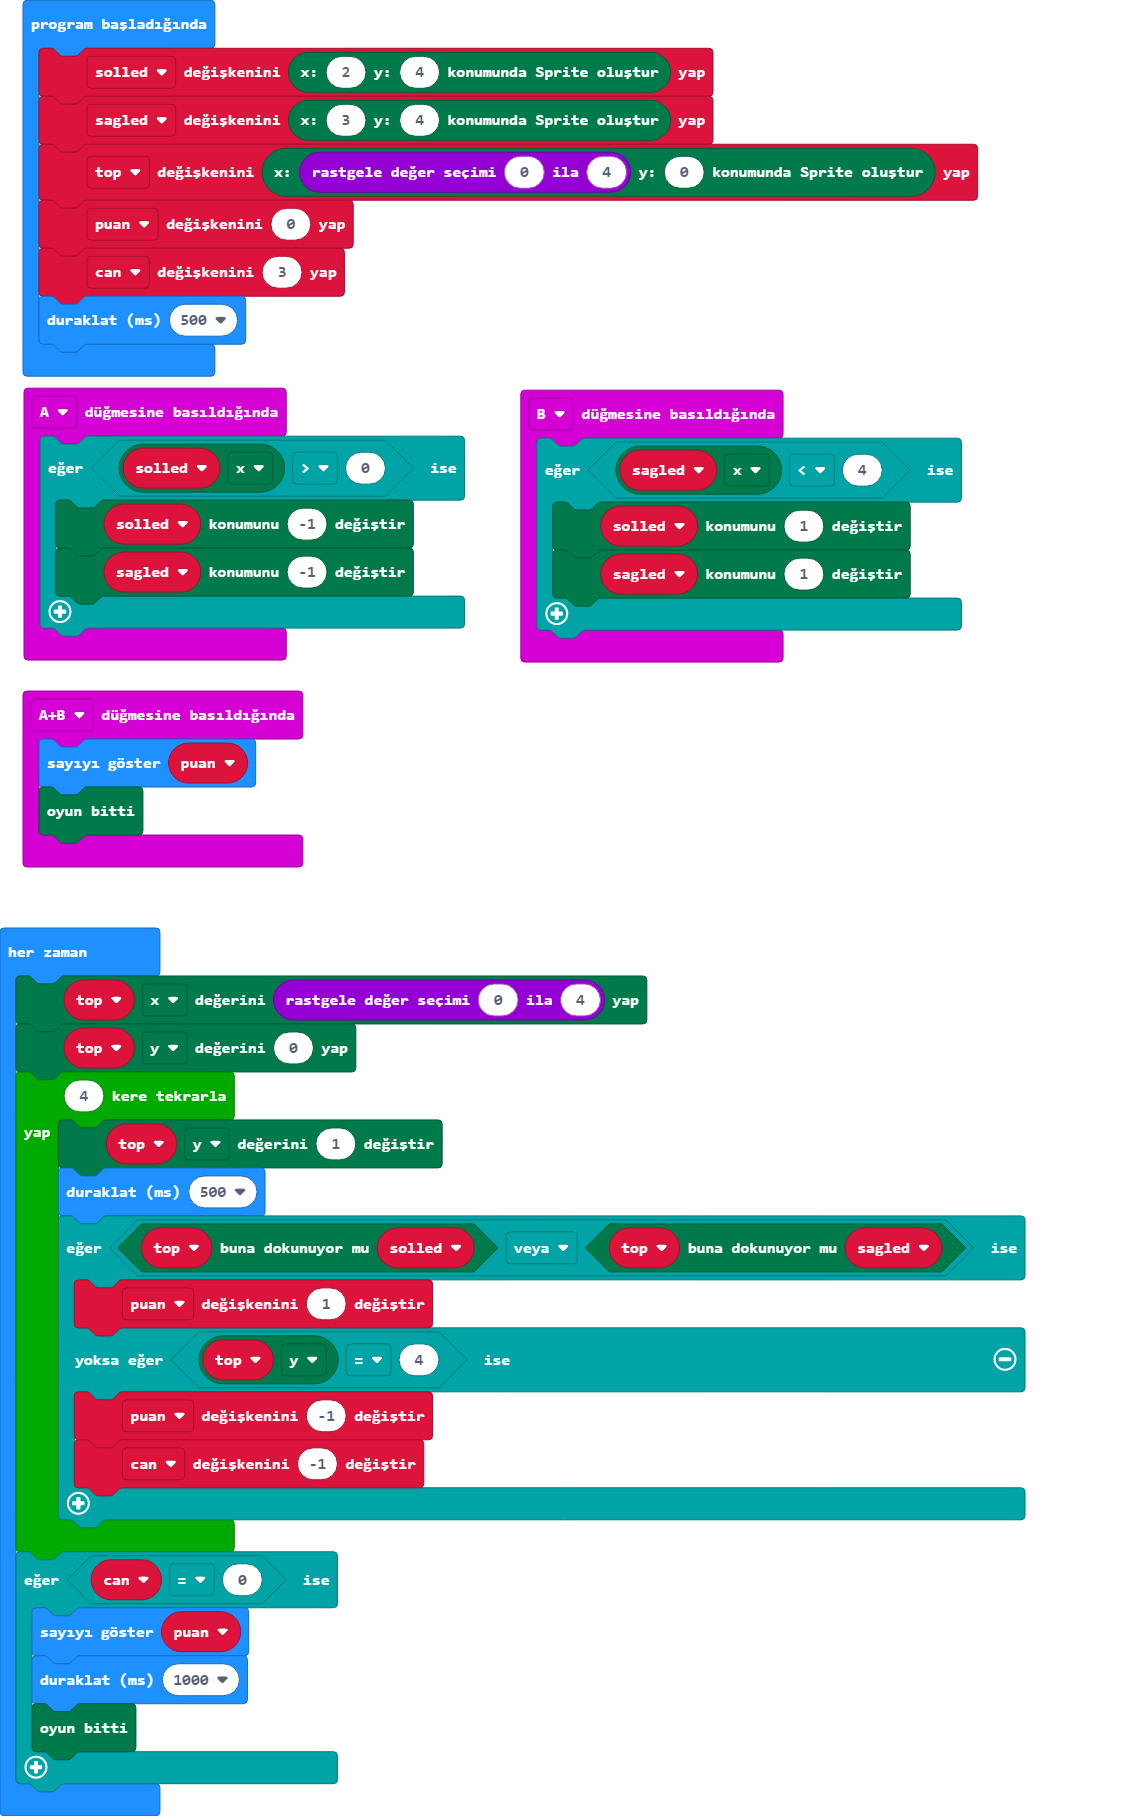
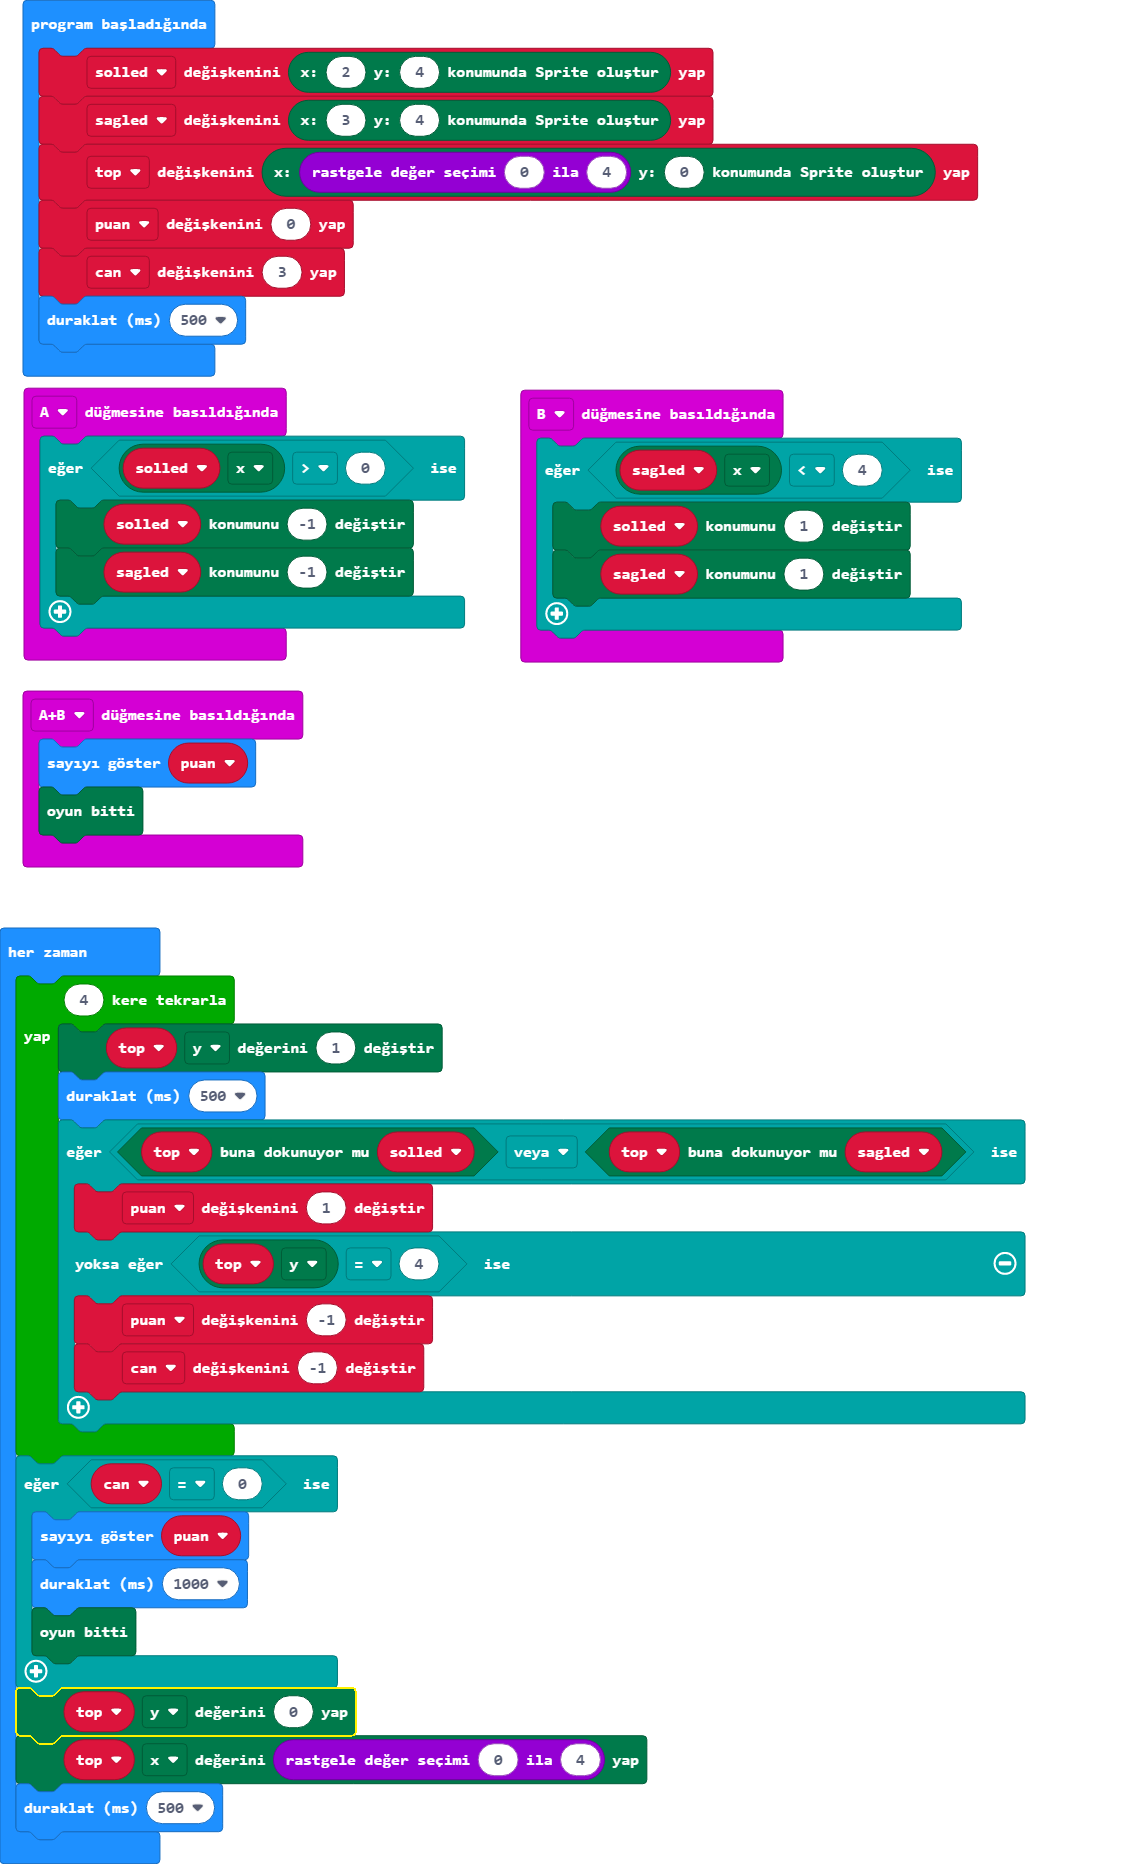
Update main.blocks, main.ts

Changed region(s): [[0.0, 0.0, 0.93, 0.9868], [0.465, 0.185, 0.868, 0.37]]

diff --git a/main.ts b/main.ts
@@ -24,8 +24,6 @@ puan = 0
 let can = 3
 basic.pause(500)
 basic.forever(function () {
-    top.set(LedSpriteProperty.X, randint(0, 4))
-    top.set(LedSpriteProperty.Y, 0)
     for (let index = 0; index < 4; index++) {
         top.change(LedSpriteProperty.Y, 1)
         basic.pause(500)
@@ -41,4 +39,7 @@ basic.forever(function () {
         basic.pause(1000)
         game.gameOver()
     }
+    top.set(LedSpriteProperty.Y, 0)
+    top.set(LedSpriteProperty.X, randint(0, 4))
+    basic.pause(500)
 })
